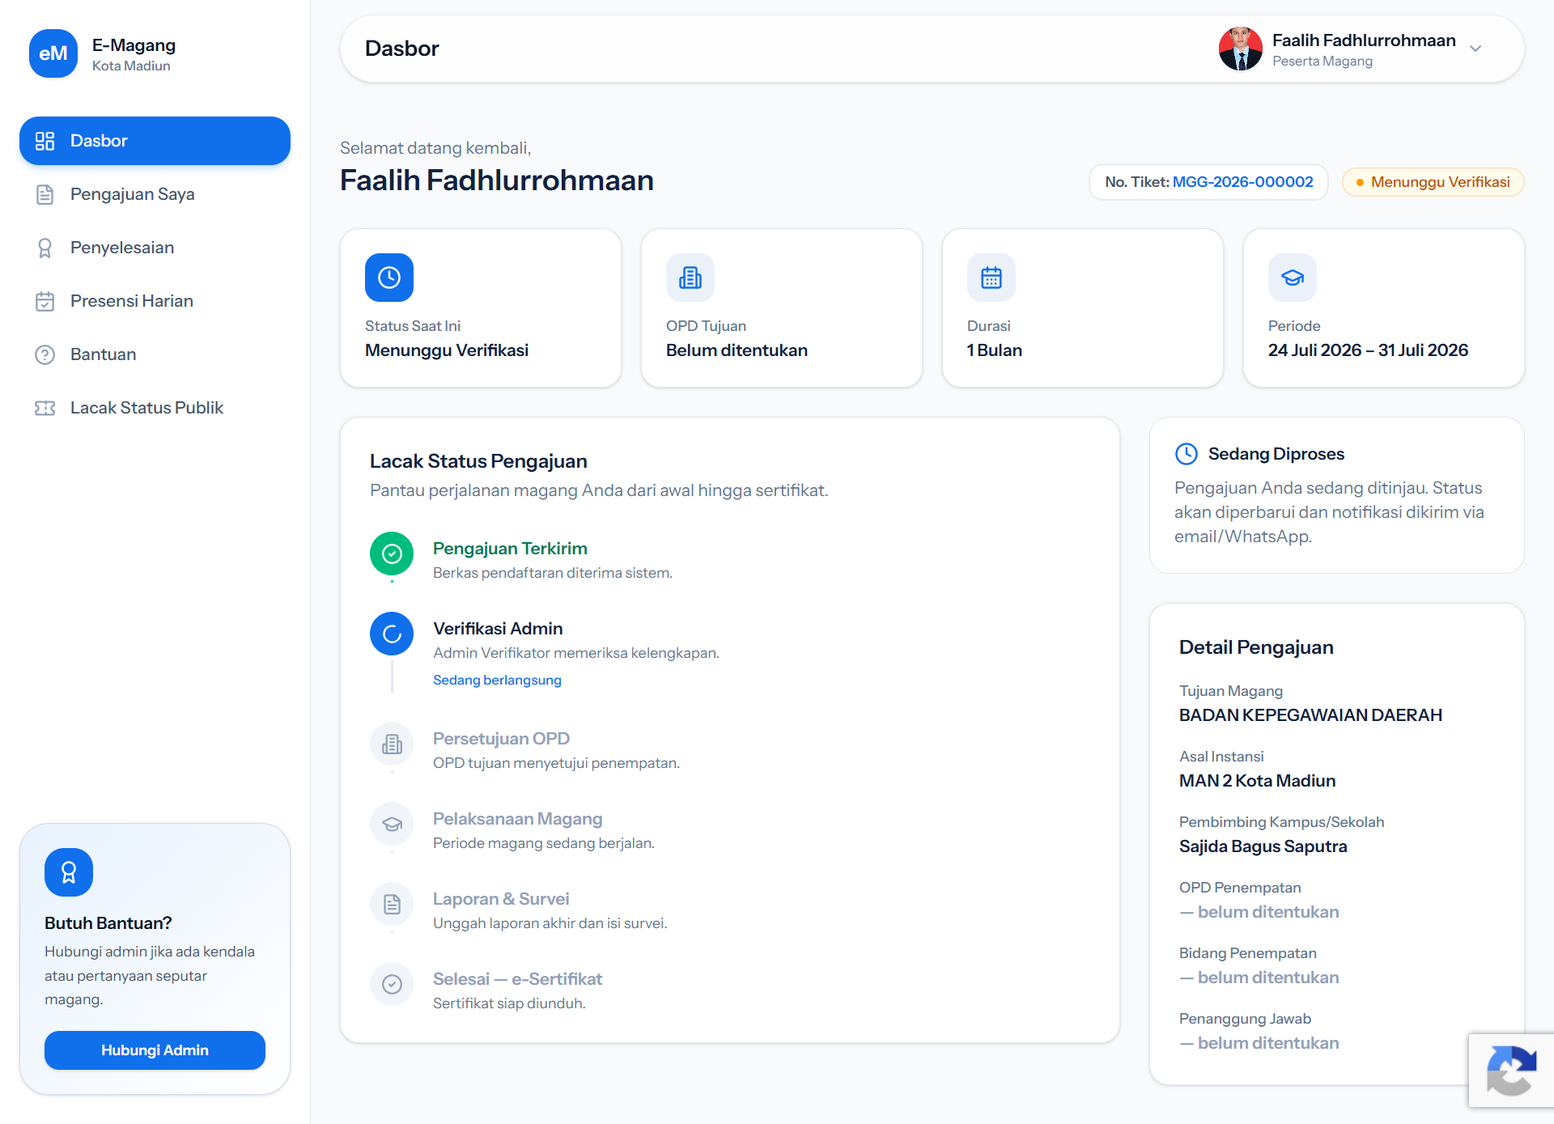
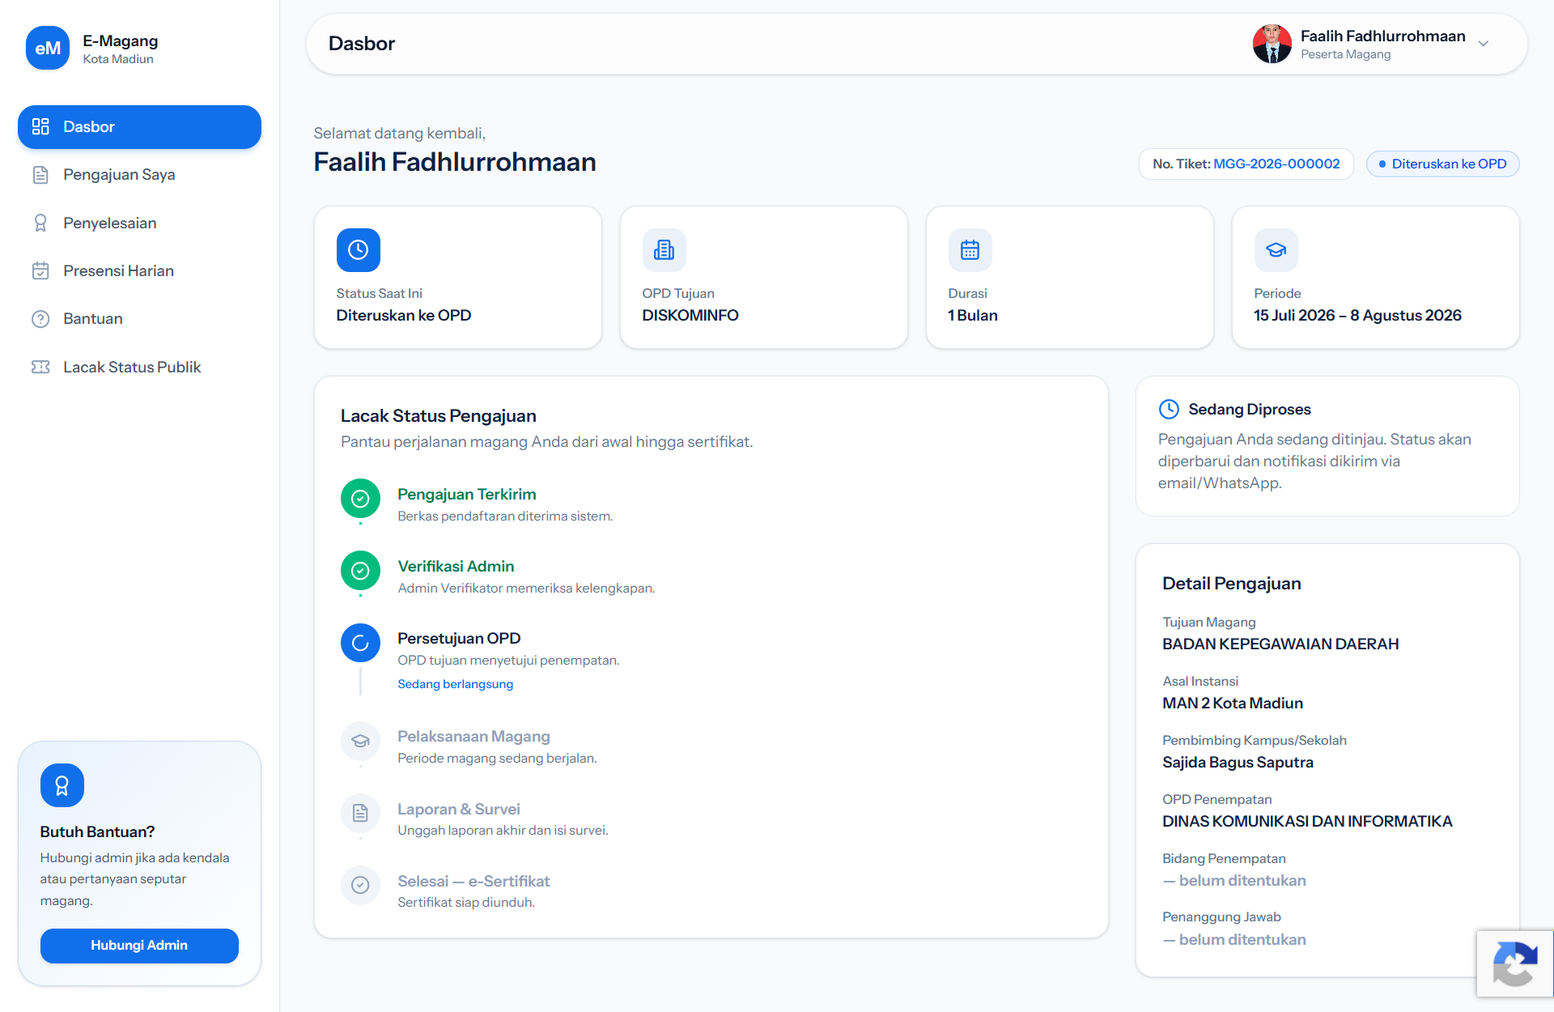
Lampiran PDF

diff --git a/resources/js/pages/welcome.tsx b/resources/js/pages/welcome.tsx
@@ -1271,14 +1271,6 @@ export default function Welcome({
                                     magang.madiunkota.go.id
                                 </span>
                             </div>
-                            {/* Viewport screenshot — rasio dikunci 16/10 (mendekati
-                                jendela browser asli) dan TIDAK mengikuti rasio file.
-                                Screenshot dasbor bentuknya jangkung (1920x1389 ≈ 1.38),
-                                kalau ditampilkan apa adanya bingkai browser jadi tidak
-                                meyakinkan dan isinya mengecil. object-cover +
-                                object-top menahan bagian atas (header + kartu ringkasan
-                                status/periode) tetap utuh & terbaca; sisa bawah
-                                (kartu bantuan, badge reCAPTCHA) yang terpotong. */}
                             <img
                                 src="/images/dasbor.png"
                                 alt="Tampilan dasbor E-Magang Kota Madiun"
@@ -1294,9 +1286,9 @@ export default function Welcome({
                                         fallback.classList.remove('hidden');
                                     }
                                 }}
-                                className="block aspect-[16/10] w-full object-cover object-top"
+                                className="block aspect-[1920/1389] w-full object-contain"
                             />
-                            <div className="hidden aspect-[16/10] w-full flex-col items-center justify-center bg-gradient-to-br from-[#0a1628] via-[#0b4fb0] to-[#cddcef]">
+                            <div className="hidden aspect-[1920/1389] w-full flex-col items-center justify-center bg-gradient-to-br from-[#0a1628] via-[#0b4fb0] to-[#cddcef]">
                                 <div className="flex flex-col items-center gap-3 text-white/90">
                                     <Building2 className="h-12 w-12" />
                                     <span className="text-[15px] font-medium">

diff --git a/resources/js/pages/verifikator/masuk.tsx b/resources/js/pages/verifikator/masuk.tsx
@@ -347,15 +347,14 @@ function ReviewPanel({
                                 OPD Tujuan
                             </label>
                             <Select value={opdId} onValueChange={setOpdId}>
-                                <SelectTrigger className="h-11 w-full rounded-xl border-slate-300 bg-white px-4 font-medium text-[#0a1628] shadow-none focus-visible:border-[#106feb] focus-visible:ring-4 focus-visible:ring-[#106feb]/15 data-[placeholder]:font-normal data-[placeholder]:text-slate-400 data-[size=default]:h-11 dark:bg-white dark:hover:bg-white">
+                                <SelectTrigger className="w-full">
                                     <SelectValue placeholder="Pilih OPD…" />
                                 </SelectTrigger>
-                                <SelectContent className="border-slate-200 bg-white text-[#0a1628]">
+                                <SelectContent>
                                     {opds.map((opd) => (
                                         <SelectItem
                                             key={opd.id}
                                             value={String(opd.id)}
-                                            className="text-[#0a1628] focus:bg-[#e8f2fe] focus:text-[#0a1628]"
                                         >
                                             {opd.name} ({opd.code})
                                         </SelectItem>

diff --git a/tests/Feature/GenerateSuratPenerimaanJobTest.php b/tests/Feature/GenerateSuratPenerimaanJobTest.php
@@ -66,6 +66,46 @@ test('job generates the pdf, stores it, records the path, and emails it', functi
     });
 });
 
+test('the sent email really carries the pdf as an attachment', function () {
+    // Sengaja TANPA Mail::fake(): fake tidak pernah membangun pesan Symfony,
+    // jadi lampiran yang hilang/rusak lolos begitu saja (tes di atas hanya
+    // memeriksa string pdfPath). Transport 'array' (phpunit.xml) menyimpan
+    // pesan yang sudah jadi, sehingga lampirannya bisa diperiksa sungguhan.
+    Storage::fake('local');
+
+    $app = approvedApplication();
+
+    (new GenerateJobAcceptanceLetter($app))->handle();
+
+    $message = Mail::mailer('array')->getSymfonyTransport()->messages()->last()->getOriginalMessage();
+    $attachments = $message->getAttachments();
+
+    expect($attachments)->toHaveCount(1);
+    expect($attachments[0]->getFilename())->toBe("surat-penerimaan-{$app->ticket_number}.pdf");
+    expect($attachments[0]->getMediaType().'/'.$attachments[0]->getMediaSubtype())->toBe('application/pdf');
+    // Isinya benar-benar PDF, bukan lampiran kosong/nol byte.
+    expect($attachments[0]->getBody())->toStartWith('%PDF');
+});
+
+test('job fails loudly when the pdf cannot be stored instead of emailing a letterless notice', function () {
+    Mail::fake();
+
+    // Disk 'local' punya 'throw' => false: put() gagal = false, bukan exception.
+    $disk = Mockery::mock();
+    $disk->shouldReceive('put')->once()->andReturnFalse();
+    $disk->shouldReceive('exists')->andReturnFalse();
+    Storage::shouldReceive('disk')->with('local')->andReturn($disk);
+
+    $app = approvedApplication();
+
+    expect(fn () => (new GenerateJobAcceptanceLetter($app))->handle())
+        ->toThrow(RuntimeException::class);
+
+    // Tidak ada email tanpa lampiran, dan path palsu tidak tercatat di pengajuan.
+    Mail::assertNothingSent();
+    expect($app->refresh()->surat_penerimaan_path)->toBeNull();
+});
+
 test('job is queued on the emails queue with retry settings', function () {
     $app = approvedApplication();
     $job = new GenerateJobAcceptanceLetter($app);

diff --git a/app/Jobs/GenerateJobAcceptanceLetter.php b/app/Jobs/GenerateJobAcceptanceLetter.php
@@ -10,6 +10,7 @@ use Illuminate\Foundation\Queue\Queueable;
 use Illuminate\Support\Facades\Log;
 use Illuminate\Support\Facades\Mail;
 use Illuminate\Support\Facades\Storage;
+use RuntimeException;
 use Throwable;
 
 /**
@@ -50,12 +51,37 @@ class GenerateJobAcceptanceLetter implements ShouldQueue
 
         $path = "acceptance-letter/{$application->id}/surat-penerimaan-{$application->ticket_number}.pdf";
 
-        Storage::disk('local')->put($path, $pdf->output());
+        $contents = $pdf->output();
+        $disk = Storage::disk('local');
+
+        $stored = $disk->put($path, $contents);
+
+        // Disk 'local' dikonfigurasi 'throw' => false, jadi put() yang gagal
+        // (izin tulis, disk penuh) hanya mengembalikan false — TANPA exception.
+        // Tanpa cek ini job lanjut: path tercatat di DB seolah surat ada, lalu
+        // Attachment::fromStorageDisk membaca null dan meledak jauh di belakang
+        // dengan TypeError "body ... got null" yang tidak menyebut surat sama
+        // sekali. Gagal di sini supaya penyebabnya kelihatan di failed_jobs.
+        if ($stored === false || ! $disk->exists($path)) {
+            throw new RuntimeException(
+                "Surat penerimaan {$application->ticket_number} gagal disimpan ke disk 'local' ({$path}); email tidak dikirim.",
+            );
+        }
 
         $application->update(['surat_penerimaan_path' => $path]);
 
         Mail::to($application->user->email)
             ->send(new AcceptanceLetterMail($application, $path));
+
+        // Jejak untuk menjawab "email diterima tapi PDF-nya tidak ada":
+        // baris ini membuktikan lampiran ikut terkirim beserta ukurannya.
+        Log::info('Surat penerimaan terkirim', [
+            'application_id' => $application->id,
+            'ticket_number' => $application->ticket_number,
+            'to' => $application->user->email,
+            'path' => $path,
+            'bytes' => strlen($contents),
+        ]);
     }
 
     public function failed(?Throwable $exception): void

diff --git a/CLAUDE.md b/CLAUDE.md
@@ -14,9 +14,12 @@ Detailed framework conventions (PHP style, Inertia v3 patterns, Pint, Pest, Wayf
 
 ## Commands
 - **composer dev** — the everyday runner: boots `php artisan serve`, `queue:listen --queue=emails,default`, and `npm run dev` (Vite) together via concurrently. The queue worker is part of this; without it, dispatched Jobs/Mail never process.
-- **composer ci:check** — mirrors GitHub Actions CI (.github/workflows/): JS lint (eslint) + format (prettier) + TS types (tsc) + `composer test`. `composer test` itself chains Pint `lint:check` + PHPStan `types:check` + `php artisan test`.
+- **composer ci:check** — the full local gate, and a superset of CI: JS lint (eslint) + format check (prettier) + TS types (tsc) + `composer test`. `composer test` itself chains Pint `lint:check` + PHPStan `types:check` + `php artisan test`. Run this before calling a batch done.
 - **php artisan test --filter=SubmissionServiceTest** — run one Pest test file/case (or `php artisan test tests/Unit/SubmissionServiceTest.php`).
-- **composer lint** (Pint) / **npm run types:check** (tsc) / **npm run lint** (eslint --fix) — run individual gates while iterating. PHPStan may need `--memory-limit=1G` locally (default 128M php.ini limit is too low).
+- **composer lint** (Pint) / **npm run types:check** (tsc) / **npm run lint** (eslint --fix) / **npm run format** (prettier --write) — run individual gates while iterating. PHPStan (level 7, paths app/ bootstrap/app.php config/ database/ routes/) may need `--memory-limit=1G` locally (default 128M php.ini limit is too low).
+- **npm run build** — production Vite build. Not needed for the test suite (tests/TestCase.php calls `withoutVite()`), but CI runs it, so a broken build fails CI even when tests pass.
+- **php artisan wayfinder:generate --with-form** — regenerate the typed route helpers. `npm run dev` runs it first, so the frontend dev server needs artisan (and a reachable DB) to boot.
+- **CI reality check.** Two workflows, not one: `.github/workflows/lint.yml` (Pint + prettier + eslint, PHP 8.4) and `tests.yml` (`composer types:check` + `npm run build` + `php artisan test` across a PHP 8.3/8.4/8.5 matrix). Both trigger **only on develop/main/master/workos** — feature branches like `front` get no CI, so `composer ci:check` locally is the only gate that actually runs.
 - **php artisan schedule:test --name="magang:transition-statuses"** — dry-run the daily 01:00 status-transition cron (routes/console.php → app/Console/Commands/TransitionApplicationStatuses.php). PostgreSQL is the DB; a `.env` DB connection must be reachable for artisan/test.
 - **php artisan migrate:fresh --seed** — DatabaseSeeder chains OpdSeeder → AdminSeeder → FaqSeeder → RegistrationSeeder in that dependency order (OPDs before admins, admins before FAQs). RegistrationSeeder injects a real-shaped pending application directly into the DB because the public form's reCAPTCHA can't be automated.
 
@@ -52,8 +55,8 @@ When editing workflows, controllers, or UI, you MUST strictly adhere to the foll
    - Emails must have a large blue header text: "magang kota Madiun".
    - Approval emails must include applicant details, placement details (Divisi, Pembimbing, Penanggung Jawab), a PDF attachment, and a specific instruction: *"Anda diharapkan hadir di kantor OPD terkait dengan menemui perwakilan dari bidang [Nama Bidang]... dipandu oleh [Nama Pembimbing]"*.
 
-## Current phase: backend wired — role dashboards + domain actions on real controllers
-As of the backend awal commit, routes/web.php is **mostly wired to real controllers**. Read its comment blocks before touching routing:
+## Routing map — role dashboards + domain actions on real controllers
+routes/web.php is **fully wired to real controllers** (the batch sections below are cumulative history; this section is the current state). Read its comment blocks before touching routing:
 1. **Role dashboard/index routes (wired).** The three role dashboards and their sub-pages now run through real controllers behind auth + role: middleware — dashboard/pengajuan/penyelesaian (Mahasiswa\DashboardController, role:mahasiswa), verifikator/verifikator/{masuk,riwayat,kuota} (Verifikator\DashboardController, role:admin_verifikator), and opd/opd/{keputusan,peserta} (Opd\DashboardController, role:admin_opd). These return Inertia::render(...) with real props.
 2. **No more Route::inertia() previews in web.php.** bantuan and pengaturan are now auth-guarded real routes on SharedPageController, injecting the logged-in `user` (via MagangUserResource) so the dashboard header/sidebar show the right name. login-otp is a real controller GET (OtpLoginController@showForm). The landing page welcome/home is real (HomeController@index, injecting active faqs + opds), and lacak is a real GET on Mahasiswa\ApplicationController@track (public status lookup via ?tiket= — the MGG- ticket number, not email). The only surviving Route::inertia() is settings/appearance (routes/settings.php). Many pages still keep MOCK_* prop defaults as fallbacks (per HANDOFF-BACKEND.md) — don't strip a page's mock data until its backend prop is in place.
 3. **Domain action routes (wired).** The state-transition endpoints: POST verifikator/pengajuan/{application}/{forward,reject,complete}, POST opd/pengajuan/{application}/{approve,reject,complete}, POST mahasiswa/pengajuan/{application}/laporan (Mahasiswa\ReportController), PATCH kuota/{opd} (OpdQuotaController — Admin OPD edits its own quota, Verifikator edits any; ownership 403 in UpdateQuotaRequest::authorize()), plus public POST pengajuan (submit from the welcome form), the OTP (otp/send, otp/verify), and admin (admin/login) auth endpoints. The applicant photo lives on the private disk and is served through GET pengajuan/{application}/foto (ApplicationPhotoController) for the admin review pop-up and the owner, authorized by a view policy (mahasiswa: own; Verifikator: all; OPD: only its own). **Fase 4 (penyelesaian) is also wired**: opd/laporan/* (Opd\ReportController — review final report, upload the locked certificate, generate/download the completion letter; per-action ownership guard `authorizeReport()` 403s other OPDs; there is no GET index — the UI lives in the opd/peserta "Kelola Peserta" detail dialog), sertifikat/{certificate}/{survei,download} (Mahasiswa\CertificateController — the mandatory survey unlocks the download), and full verifikator/faq/* CRUD (Verifikator\FaqController, which feeds the landing page). Thin controllers under app/Http/Controllers/{Auth,Mahasiswa,Opd,Verifikator}/ delegate to services, guarded by auth + role: and validated through FormRequests in app/Http/Requests/ (Application/, Auth/, Mahasiswa/, Opd/, Verifikator/, Settings/).
@@ -100,6 +103,8 @@ Fakta repo lain: `pages/welcome.tsx` **self-contained** — `resources/js/compon
 
 **Anti-abuse layer.** Both login paths apply the InvalidatesOtherSessions trait (app/Concerns/) — the mahasiswa Auth\OtpLoginController and the admin Fortify flow (wired in FortifyServiceProvider): on successful login it clears every other session for that user (database session driver), enforcing single-session-across-devices on top of the per-controller 403 guard. The public submission form is protected by Google reCAPTCHA **v3** (score-based) via the App\Rules\Recaptcha rule — required only when config('services.recaptcha.secret') is set, so tests/local dev without keys still pass; the same rule guards OTP send and admin login (actions 'daftar'/'otp_send'/'admin_login', frontend hook resources/js/hooks/use-recaptcha-v3.ts). Submission spam is additionally throttled by RateLimitService/FormRateLimit.
 
+**Global middleware (bootstrap/app.php).** Three things are registered globally, not per-route, so they affect every request: `SanitizeInput` (appended to the global stack — runs *before* FormRequest validation), `EnsureMustChangePassword` (appended to the `web` group, after HandleInertiaRequests, plus aliased as `password.changed`), and `trustProxies(at: '*')` — the last one exists so ngrok/reverse-proxy `X-Forwarded-*` headers are honoured and assets/redirects don't downgrade to `http://`. Cookies `appearance` and `sidebar_state` are excluded from encryption.
+
 **Frontend imports** use the @/ alias → resources/js/ (see tsconfig.json). Add new shadcn components with the shadcn CLI (config in components.json); they land in resources/js/components/ui/.
 
 **Domain service layer.** Business logic lives in app/Services/, not controllers — when the HTTP layer is written, controllers should be thin and delegate here. The lifecycle state machine is SubmissionService (submit, forwardToOpd, approve, reject, startOngoing, complete): each transition runs inside a DB::transaction, calls guardStatus() to reject out-of-order moves (throws DomainException), writes an ApplicationStatusLog audit row, mutates side state (e.g. approve increments the OPD's quota_used), and dispatches a job. Match this shape for new transitions. Other services: CertificateService (upload to the **private** local disk, certificates start is_download_locked = true), OtpService (5-minute token TTL), OtpLockoutService (progressive Fibonacci lockout, see Business Logic above), ImageService (normalizes the registration pas foto via Intervention Image — scaleDown to 1000px + JPEG q80, falling back to storing the original when GD/Imagick is missing so registration never fails; local dev PHP may lack GD, production should have it), RateLimitService (anti-spam via FormRateLimit). Two services are bound by contract in app/Providers/AppServiceProvider.php (OtpServiceContract → OtpService, PengajuanServiceContract → SubmissionService) — type-hint the contract, not the class.
@@ -112,6 +117,8 @@ Fakta repo lain: `pages/welcome.tsx` **self-contained** — `resources/js/compon
 
 ## Tests
 Pest v4. Unit tests for services live in tests/Unit/ (SubmissionServiceTest, CertificateServiceTest, OtpServiceTest, OtpLockoutServiceTest, RateLimitServiceTest). Feature tests have a **doubly-nested** layout: newer role/flow coverage sits under tests/Feature/Feature/{Auth,Mahasiswa,Opd,Verifikator,Penyelesaian,Security}/ — put new controller/flow tests there to match. tests/Feature/Feature/Penyelesaian/EndToEndFlowTest.php walks the full lifecycle and is the best reference for wiring a new transition; Security/{SingleSessionTest,RecaptchaRateLimitTest} cover the anti-abuse guards. Local PHP may lack the GD extension, so tests that need an uploaded image use `UploadedFile::fake()->create(..., 'image/jpeg')` rather than `->image()` — follow that pattern.
+
+tests/Feature/{Auth,Settings}/ (single-nested) are the **untouched starter-kit tests**; the doubly-nested tree is this project's own. **Expected baseline: ~185 tests, 10 skipped** — the skips are not a regression. Nine come from Fortify features this app deliberately leaves off (registration, password reset, two-factor), which bail out through `TestCase::skipUnlessFortifyHas()`; one is an explicit `->skip()` in Mahasiswa/ApplicationControllerTest for a page that was never built (the live registration form is welcome.tsx `#daftar`). A run that reports 0 skips means the suite changed, not that something got fixed.
 
 ## Sibling docs
 Two design/handoff docs live at the repo root (both in Indonesian): **BLUEPRINT-REDESIGN.md** — the brand-locked (#106feb / #0b4fb0 / #cddcef) UI redesign spec; consult it for layout/typography/interaction decisions. **HANDOFF-BACKEND.md** — the frontend→backend handoff, describing pages built as self-rendering Inertia components with mock-data prop defaults; the contract is to swap mocks for real data **without changing prop paths or names**. Preserve that contract when wiring props.

diff --git a/prompt/CURRENT-SESSION.md b/prompt/CURRENT-SESSION.md
@@ -8,7 +8,10 @@
   logika periode magang. Antrean task di bawah, dikerjakan urut.
 
 ## Antrean task sesi 2026-07-27
-- [x] **T1 — Kolom "OPD Tujuan" di Pengajuan Masuk (verifikator/masuk.tsx)** ✅
+- [~] **T1 — Kolom "OPD Tujuan" di Pengajuan Masuk (verifikator/masuk.tsx)** ↩ DIBATALKAN
+  **Dikembalikan ke kondisi semula atas permintaan user (2026-07-27).** Riwayat
+  perubahan yang sempat diterapkan lalu dibatalkan ada di bawah ini — jangan
+  dikerjakan ulang tanpa permintaan baru.
   Desainnya beda sendiri dari kolom lain di panel tinjau (SelectTrigger default
   shadcn: tinggi 36px, `rounded-md`, border abu) sementara textarea di panel yang
   sama pakai `h-11 rounded-xl` + focus ring biru. Samakan dengan versi yang sudah
@@ -18,7 +21,12 @@
   `data-[placeholder]` abu + `data-[size=default]:h-11` supaya tak ditimpa varian
   default), `SelectContent` `border-slate-200 bg-white`, tiap `SelectItem`
   `focus:bg-[#e8f2fe]`. Satu-satunya Select di halaman itu, jadi tak ada sisa.
-- [x] **T2 — Hero image `dasbor.png` di welcome.tsx** ✅
+- [~] **T2 — Hero image `dasbor.png` di welcome.tsx** ↩ DIBATALKAN
+  **Dikembalikan ke kondisi semula atas permintaan user (2026-07-27):**
+  `aspect-[1920/1389]` + `object-contain` (img & blok fallback), komentar
+  penjelas dihapus. Perubahan `DatePicker` (prop `max` + `maxTanggalSelesai()`)
+  di file yang sama TIDAK ikut dibatalkan — itu milik T4a, bukan T2.
+  Riwayat perubahan yang sempat diterapkan lalu dibatalkan ada di bawah ini.
   (a) gambar terasa "tertutup" bar URL browser-chrome di atasnya → tidak tampil full;
   (b) file 1920×1389 (rasio 1.38) dipakai apa adanya lewat `aspect-[1920/1389]`,
   jauh lebih jangkung dari viewport browser asli sehingga bingkai tidak meyakinkan
@@ -111,6 +119,35 @@
   query DB langsung. Kalau koreksi tanggal akan sering terjadi (mis. peserta
   mundur/maju jadwal), perlu endpoint + form di panel Verifikator/OPD.
 - Prettier pre-existing di `verifikator/users/index.tsx`.
+
+## Sesi 2026-07-28 — laporan "PDF surat penerimaan tidak terlampir di email ACC"
+**Tidak bisa direproduksi di repo/DB ini — kodenya benar.** Diverifikasi
+end-to-end (bukan hanya baca kode): job di-dispatch → antrean DB → `queue:work
+--queue=emails` → DomPDF → `MAIL_MAILER=log`, dan MIME yang keluar berisi
+`Content-Type: application/pdf; name=surat-penerimaan-MGG-2026-0051.pdf` +
+`Content-Disposition: attachment` dengan body diawali `%PDF` (±1,26 MB).
+`failed_jobs` = 0, `jobs` = 0, dan kedua pengajuan `approved` punya
+`surat_penerimaan_path` yang filenya ADA di disk privat.
+Yang **memang cacat** dan diperbaiki:
+- `GenerateSuratPenerimaanJobTest` hanya mengecek string `pdfPath` lewat
+  `Mail::fake()` — fake tak pernah membangun pesan Symfony, jadi lampiran yang
+  hilang LOLOS. Dibuktikan: `attachments()` dikosongkan sementara → 3 tes lama
+  tetap hijau. Tes baru "the sent email really carries the pdf as an attachment"
+  memeriksa pesan asli lewat transport `array` (jumlah, nama file, media type,
+  body diawali `%PDF`) dan GAGAL saat lampiran dihapus.
+- Disk `local` ber-`'throw' => false` → `Storage::put()` yang gagal (izin tulis/
+  disk penuh) hanya mengembalikan `false`. Job lama lanjut: path dicatat di DB
+  seolah surat ada, lalu meledak jauh di belakang dengan TypeError "body …
+  got null" yang tak menyebut surat sama sekali. Kini dicek (`$stored === false
+  || ! exists()`) → `RuntimeException` bernama jelas sebelum email dikirim, plus
+  `Log::info('Surat penerimaan terkirim', [... 'bytes' => …])` sebagai bukti
+  lampiran ikut terkirim saat ada laporan serupa.
+- Gate: Pint ✅ · PHPStan ✅ (--memory-limit=1G) · Pest **187 tes: 177 lulus /
+  10 skip (881 assertion)** ✅.
+- **Belum terjawab (butuh info dari sisi pelapor):** email di lingkungan mana,
+  dan apakah worker di sana benar-benar mengonsumsi antrean `emails`
+  (`queue:work` tanpa `--queue=emails` = job ACC tak pernah jalan → yang sampai
+  ke pemohon cuma email konfirmasi pendaftaran, yang MEMANG tanpa lampiran).
 
 ## Sudah selesai
 - [x] 01 — OTP expiry 10 menit → 5 menit (OtpService TTL_MINUTES, mail otp.blade.php, OtpServiceTest — 6 tes lulus)
